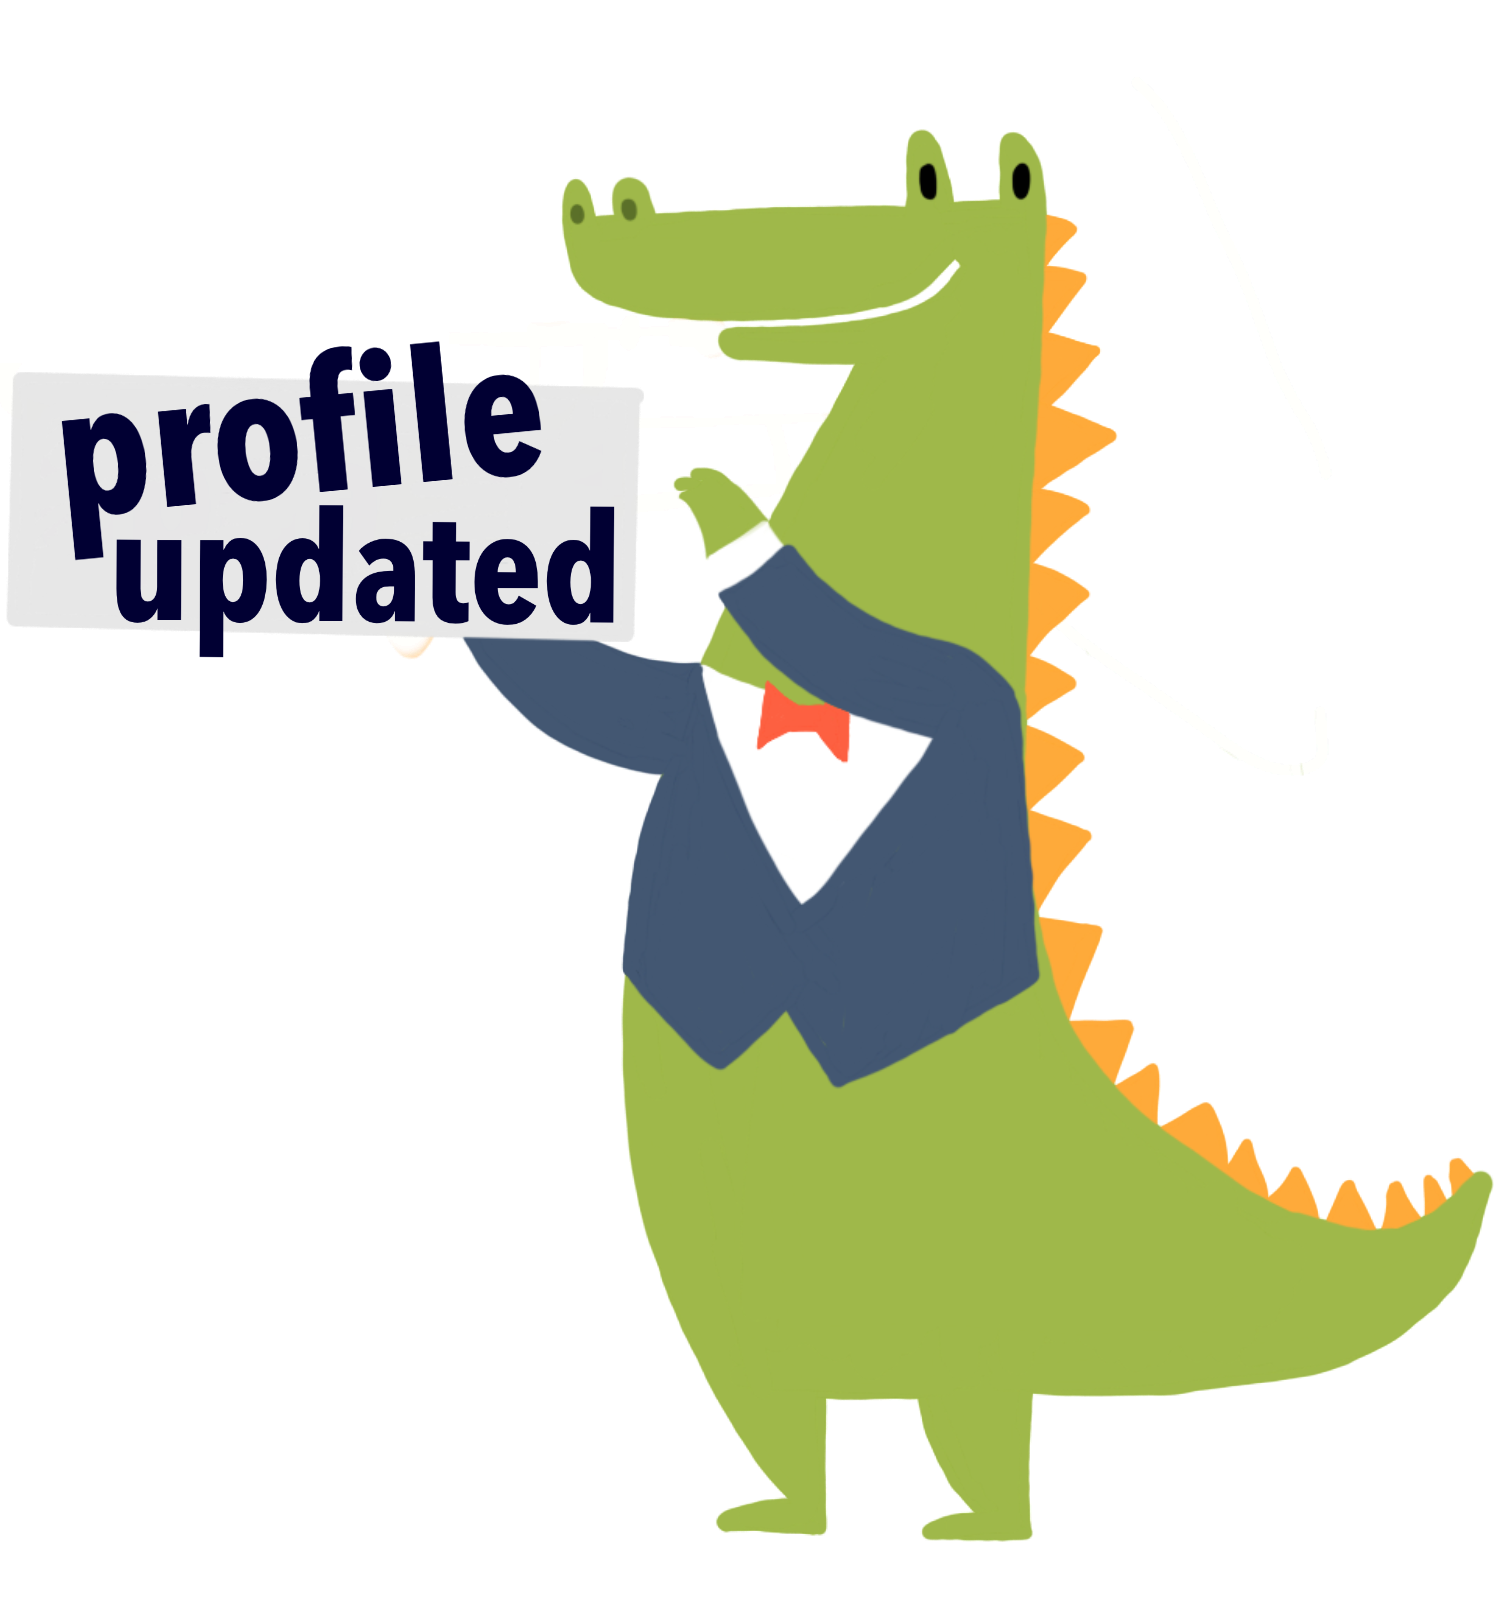
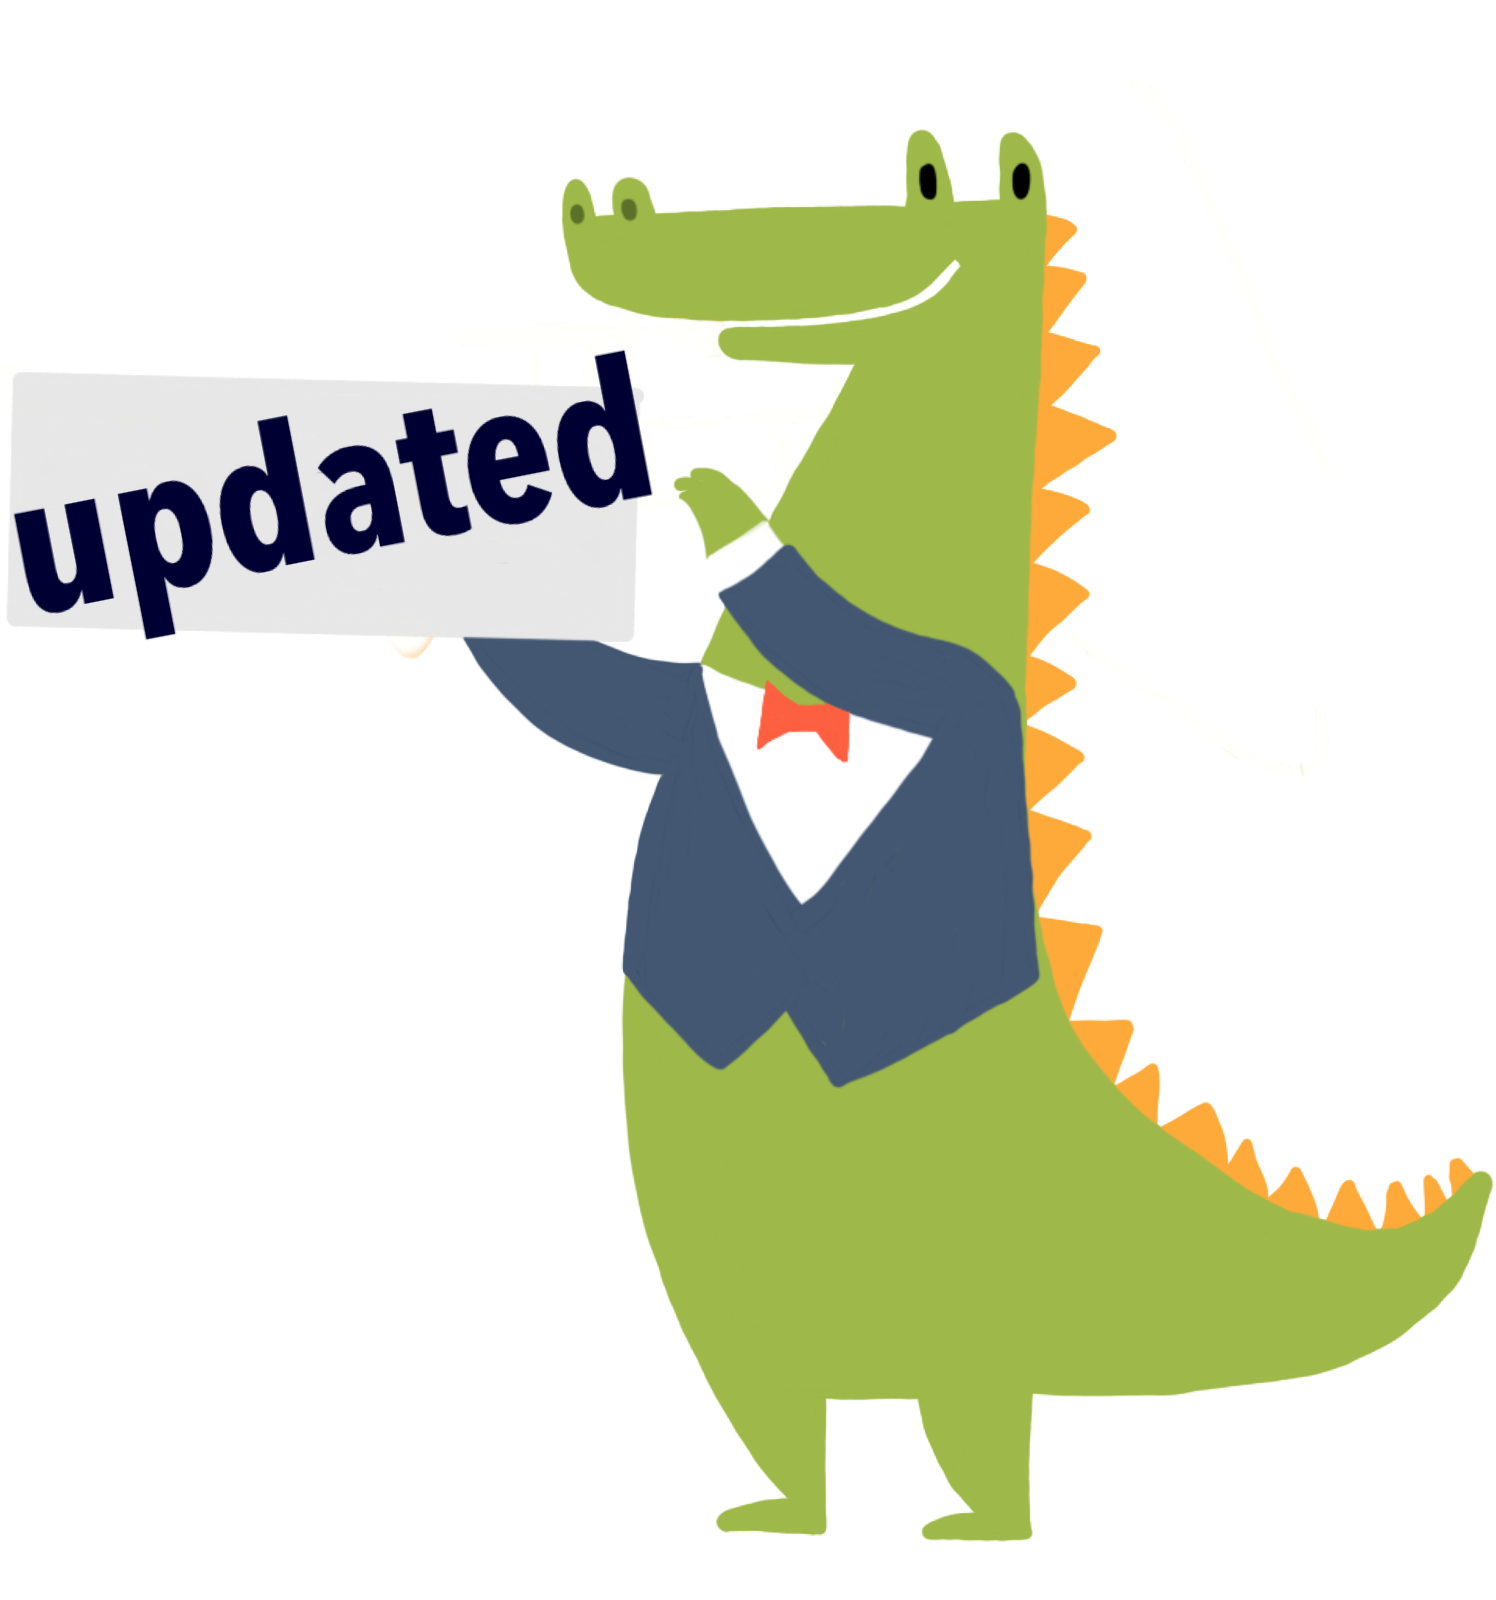
Change the profile update page to be used in get Data as well

Changed region(s): [[0.0, 0.2188, 0.4612, 0.4062]]

diff --git a/src/main/resources/templates/profile_updated.html b/src/main/resources/templates/profile_updated.html
@@ -15,17 +15,20 @@
         <div class="col-xl-4"></div>
         <div class="col-xl-4">
             <div class="update-message">
-                <h2> Thanks for the new info!</h2>
+                <h2> Thanks!</h2>
             </div>
             <div class="update-image">
                 <img src="../assets/img/profileupdated_animal.png" style="max-width: 60%;height: auto;">
             </div>
             <div class="update-message">
-                <h2>Your info has been updated</h2>
+                <h2>Info has been updated</h2>
             </div>
             <div class="update-button">
                 <a class="btn btn-primary" href="/profile">
                     <span class="nav-link-inner--text">Back to PROFILE</span>
+                </a>
+                <a class="btn btn-primary" href="/dashboard">
+                    <span class="nav-link-inner--text">Back to DASHBOARD</span>
                 </a>
             </div>
         </div>
